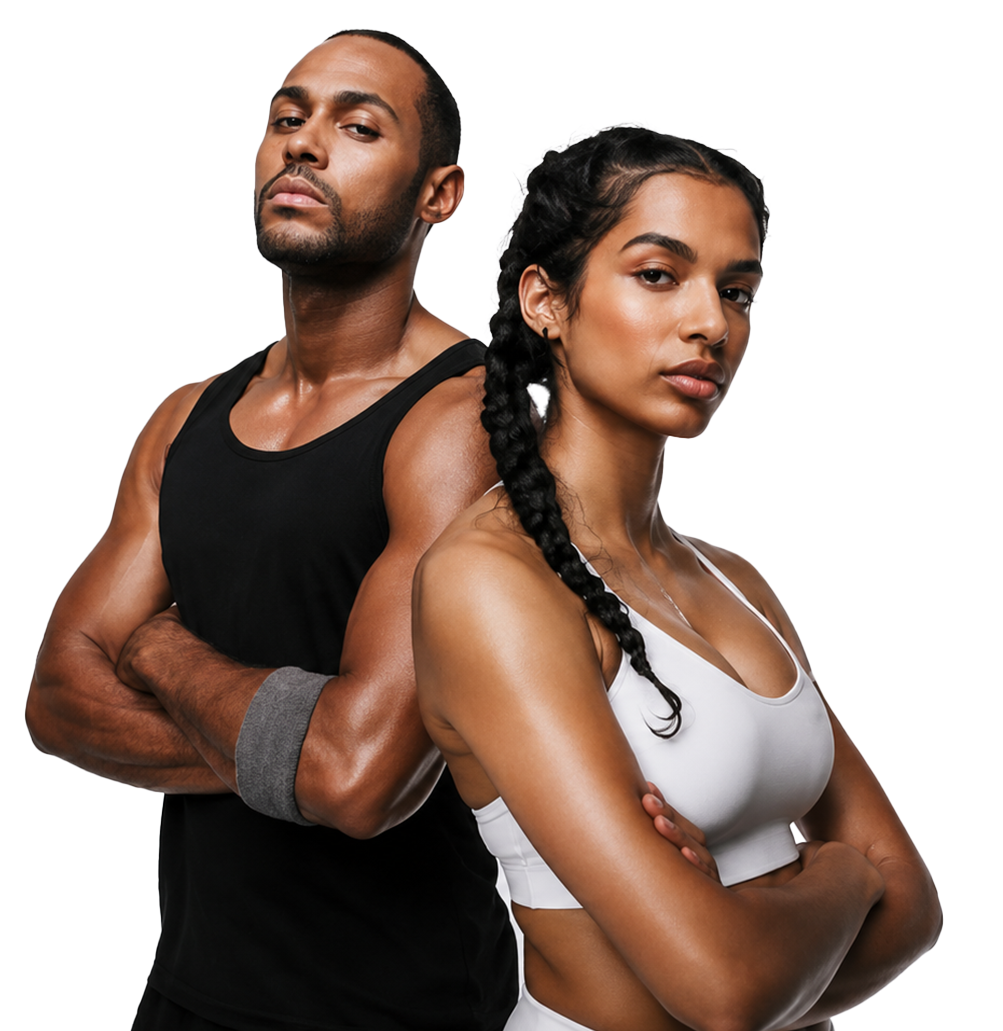
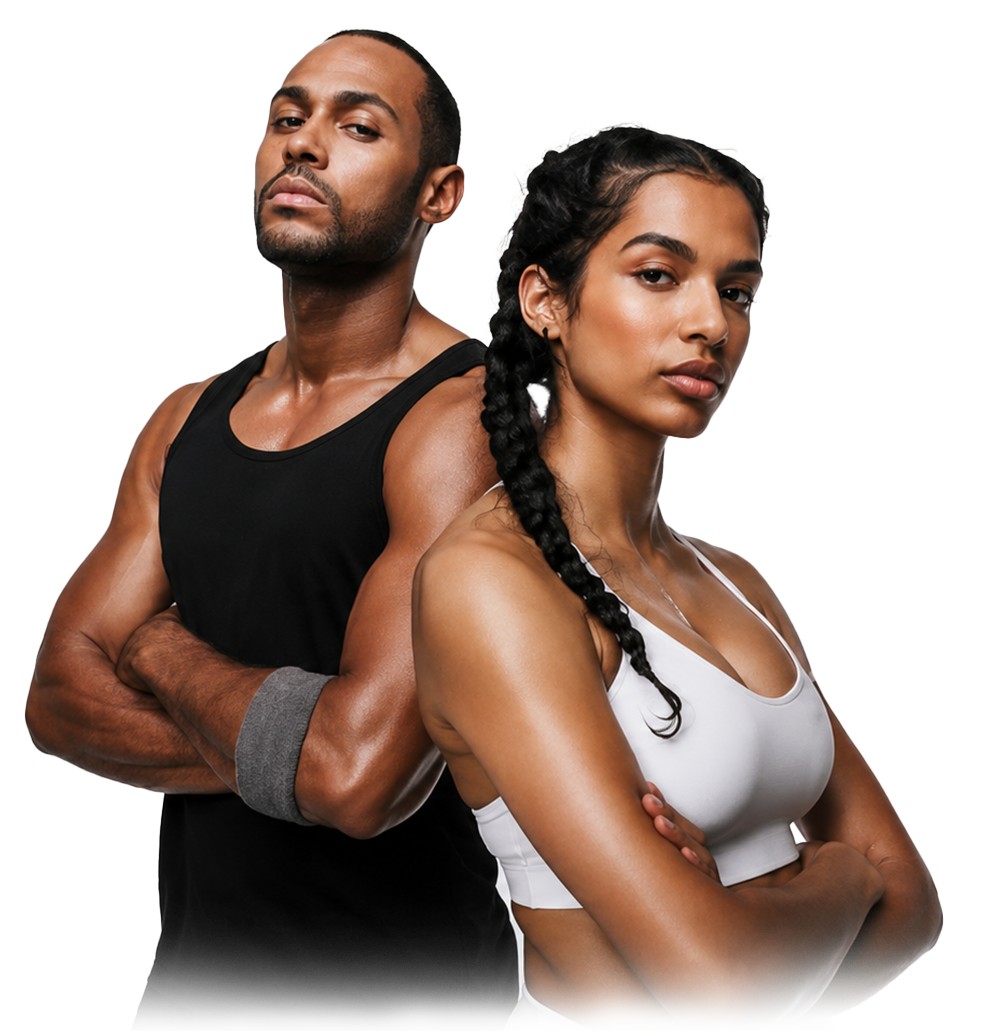
Add dynamic slider section

Changed region(s): [[0.1236, 0.9001, 0.9272, 1.0]]

diff --git a/Home/home.html b/Home/home.html
@@ -35,10 +35,79 @@
             <img src="../images/persons.png" alt="Fitness Men & Women" class="fitness_image">       
         </main>
 
+        <!--Dynamic Slider Section-->
+  <section class="slider-container">
+    <div class="slider-track" id="sliderTrack">
+      
+      <!-- Card 1 -->
+      <a href="#">
+      <div class="feature-card">
+        <div class="card-image-wrapper">
+          <img src="../images/nutrition_&_vitamin.jpeg" alt="Nutrition & Vitamin">
+        </div>
+        <h3>Nutrition & Vitamin</h3>
+      </div>
+      </a>
+
+      <!-- Card 2 -->
+      <a href="#">
+      <div class="feature-card">
+        <div class="card-image-wrapper">
+          <img src="../images/lifestyle_&_wellness.jpeg" alt="Lifestyle & Wellness">
+        </div>
+        <h3>Lifestyle & Wellness</h3>
+      </div>
+      </a>
+
+      <!-- Card 3 -->
+      <a href="#">
+      <div class="feature-card">
+        <div class="card-image-wrapper">
+          <img src="../images/workout_gear.jpeg" alt="Workout Gear">
+        </div>
+        <h3>Workout Gear</h3>
+      </div>
+      </a>
+
+      <!-- Card 4 -->
+      <a href="#">
+      <div class="feature-card">
+        <div class="card-image-wrapper">
+          <img src="../images/healthy_meal.jpeg" alt="Healthy Meals">
+        </div>
+        <h3>Healthy Meals</h3>
+      </div>
+      </a>
+
+      <!-- Card 5 -->
+      <a href="#">
+      <div class="feature-card">
+        <div class="card-image-wrapper">
+          <img src="../images/habits.jpeg" alt="Habits">
+        </div>
+        <h3>Habits</h3>
+      </div>
+      </a>
+
+      <!-- Card 6 -->
+      <a href="#">
+      <div class="feature-card">
+        <div class="card-image-wrapper">
+          <img src="../images/sleep.jpeg" alt="Sleeping">
+        </div>
+        <h3>Sleeping</h3>
+      </div>
+      </a>
+
+    </div>
+  </section>
+
         <!-- Footer Section -->
         <footer class="footer_text">
             &copy; 2026 AuraFit. All rights reserved.
         </footer>
+
+        <script src="script.js"></script>
 
 
     </body>

diff --git a/Home/script.js b/Home/script.js
@@ -1,0 +1,69 @@
+const track = document.getElementById('sliderTrack');
+const container = document.querySelector('.slider-container');
+
+let isDown = false;
+let startX;
+let scrollLeft;
+let scrollSpeed = 0.5;
+let animationFrameId;
+
+
+function autoPlay() {
+  
+  container.scrollLeft += scrollSpeed;
+  
+
+  if (container.scrollLeft >= (track.scrollWidth - container.clientWidth)) {
+    container.scrollLeft = 0;
+  }
+  
+  animationFrameId = requestAnimationFrame(autoPlay);
+}
+
+
+autoPlay();
+
+
+container.addEventListener('mousedown', (e) => {
+  isDown = true;
+  cancelAnimationFrame(animationFrameId);
+  startX = e.pageX - container.offsetLeft;
+  scrollLeft = container.scrollLeft;
+});
+
+container.addEventListener('mouseleave', () => {
+  if(isDown) {
+    isDown = false;
+    autoPlay();
+  }
+});
+
+container.addEventListener('mouseup', () => {
+  isDown = false;
+  autoPlay();
+});
+
+container.addEventListener('mousemove', (e) => {
+  if (!isDown) return;
+  e.preventDefault();
+  const x = e.pageX - container.offsetLeft;
+  const walk = (x - startX) * 1.5;
+  container.scrollLeft = scrollLeft - walk;
+});
+
+
+container.addEventListener('touchstart', (e) => {
+  cancelAnimationFrame(animationFrameId);
+  startX = e.touches[0].pageX - container.offsetLeft;
+  scrollLeft = container.scrollLeft;
+});
+
+container.addEventListener('touchend', () => {
+  autoPlay();
+});
+
+container.addEventListener('touchmove', (e) => {
+  const x = e.touches[0].pageX - container.offsetLeft;
+  const walk = (x - startX) * 1.5;
+  container.scrollLeft = scrollLeft - walk;
+});

diff --git a/Home/style.css b/Home/style.css
@@ -105,7 +105,7 @@ body{
 
 .main_content h1 {
   font-family: 'Impact', 'Arial Black', sans-serif;
-  font-size: 6rem;
+  font-size: clamp(3.5rem, 6vw, 6rem);
   line-height: 1.1;
   letter-spacing: 4px;
   color: black;
@@ -152,6 +152,69 @@ body{
 
 .register_button2:hover, .login_button:hover{
     transform: translateY(-2px);
+}
+
+.slider-container {
+    width: 100%;
+    padding: 60px 8%;
+    overflow: hidden;
+    position: relative;
+    z-index: 2;
+    cursor: grab;
+}
+
+.slider-container:active {
+    cursor: grabbing;
+}
+
+.slider-track {
+    display: flex;
+    gap: 40px;
+    width: max-content;
+    transition: transform 0.1s ease-out;
+    will-change: transform;
+}
+
+.slider-track a{
+    text-decoration: none;
+}
+
+.feature-card {
+    width: 420px;
+    text-align: center;
+    flex-shrink: 0;
+    user-select: none;
+}
+
+.card-image-wrapper {
+    overflow: hidden;
+    border-radius: 24px;
+    height: 300px;
+    box-shadow: 0 15px 35px rgba(0, 0, 0, 0.2);
+    background: #fff;
+    transition: transform 0.3s ease, border-color 0.3s ease;
+}
+
+.card-image-wrapper img {
+    width: 100%;
+    height: 100%;
+    object-fit: cover;
+    pointer-events: none;
+}
+
+
+.feature-card:hover .card-image-wrapper {
+    transform: scale(1.03);
+    border-color: rgba(255, 255, 255, 0.7);
+}
+
+.feature-card h3 {
+    font-family: 'popins', sans-serif;
+    margin-top: 15px;
+    font-size: 1.2rem;
+    font-weight: 600;
+    color: #000000;
+    text-shadow: 0 2px 4px rgba(131, 130, 130, 0.5);
 }
 
 .footer_text{
